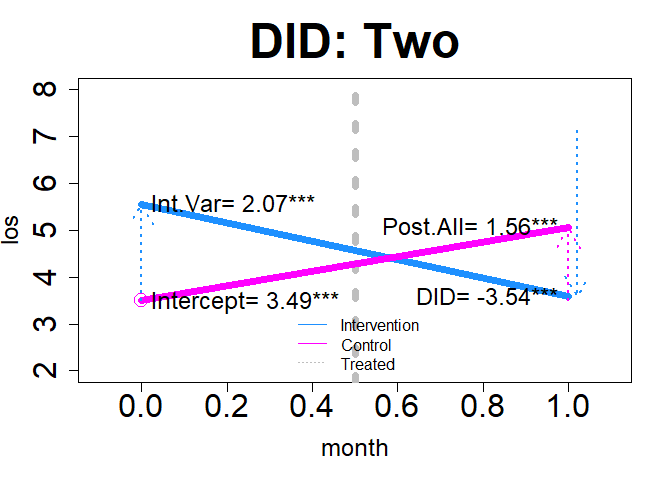
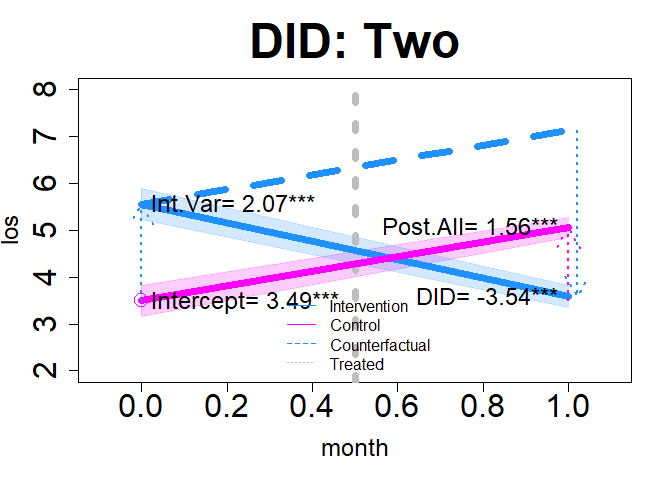
plot.assess sped up confidence bars

diff --git a/README.md b/README.md
@@ -856,13 +856,13 @@ plot(dm1, "DID", add.legend="bottom", ylim=c(2, 8), main="DID: Two No Coefficien
 <img src="man/figures/README-revDID0-1.png" width="100%" />
 
 ``` r
-plot(dm1, "DID", add.legend="bottom", xlim=c(-.1, 1.1), ylim=c(2, 8), main="DID: Two", col=c("dodgerblue","magenta"), lwd=7, cex=2, cex.axis=2, cex.lab=1.5,  cex.main=3, arrow=TRUE, xshift=c(.02), cex.text=1.5, coefs=TRUE, round.c=2 )
+plot(dm1, "DID", add.legend="bottom", xlim=c(-.1, 1.1), ylim=c(2, 8), main="DID: Two", col=c("dodgerblue","magenta"), lwd=7, cex=2, cex.axis=2, cex.lab=1.5,  cex.main=3, arrow=TRUE, xshift=c(.02), cex.text=1.5, coefs=TRUE, round.c=2, cfact=T, conf.int=TRUE, adj.alpha=0.2 )
 ```
 
 <img src="man/figures/README-revDID1-1.png" width="100%" />
 
 ``` r
-plot(dm2, "DID", add.legend="topleft", xlim=c(-.5, 12), ylim=c(2, 8), main="DID: Many", col=c("purple","green"), lwd=7, cex=3, cex.axis=2, cex.lab=1.5,  cex.main=3, arrow=TRUE, xshift=c(.25, .1), cex.text=1.5, coefs=TRUE, round.c=2 )
+plot(dm2, "DID", add.legend="topleft", xlim=c(-.5, 12), ylim=c(2, 8), main="DID: Many", col=c("purple","green"), lwd=7, cex=3, cex.axis=2, cex.lab=1.5,  cex.main=3, arrow=TRUE, xshift=c(.25, .1), cex.text=1.5, coefs=TRUE, round.c=2, cfact=T, conf.int=TRUE, adj.alpha=0.2 )
 ```
 
 <img src="man/figures/README-revDID2-1.png" width="100%" />
@@ -870,19 +870,19 @@ plot(dm2, "DID", add.legend="topleft", xlim=c(-.5, 12), ylim=c(2, 8), main="DID:
 ### Interrupted Time Series
 
 ``` r
-plot(im11, "ITS", add.legend="topleft", xlim=c(-1, 14), ylim=c(2, 8), main="ITS study: SGST", col="thistle", lwd=7, cex=3, cex.axis=2, cex.lab=1.5,  cex.main=3, arrow=TRUE, xshift=c(.25, .25), cex.text=1.5, coefs=TRUE, round.c=2 )
+plot(im11, "ITS", add.legend="topleft", xlim=c(-1, 14), ylim=c(2, 8), main="ITS study: SGST", col="thistle", lwd=7, cex=3, cex.axis=2, cex.lab=1.5,  cex.main=3, arrow=TRUE, xshift=c(.25, .25), cex.text=1.5, coefs=TRUE, round.c=2, cfact=T, conf.int=TRUE, adj.alpha=0.2 )
 ```
 
 <img src="man/figures/README-revITS1-1.png" width="100%" />
 
 ``` r
-plot(im12, "ITS", add.legend="topleft", xlim=c(-1, 14), ylim=c(2, 8), main="ITS study: SGMT", col="hotpink", lwd=7, cex=3, cex.axis=2, cex.lab=1.5,  cex.main=3, arrow=TRUE, xshift=c(.25, .25), cex.text=1.5, coefs=TRUE, round.c=2 )
+plot(im12, "ITS", add.legend="topleft", xlim=c(-1, 14), ylim=c(2, 8), main="ITS study: SGMT", col="hotpink", lwd=7, cex=3, cex.axis=2, cex.lab=1.5,  cex.main=3, arrow=TRUE, xshift=c(.25, .25), cex.text=1.5, coefs=TRUE, round.c=2, cfact=T, conf.int=TRUE, adj.alpha=0.2 )
 ```
 
 <img src="man/figures/README-revITS2-1.png" width="100%" />
 
 ``` r
-plot(im21, "ITS", add.legend="top", xlim=c(-1, 14), ylim=c(2, 8), main="ITS study: MGST", col=c("springgreen","salmon"), lwd=7, cex=3, cex.axis=2, cex.lab=1.5,  cex.main=3, arrow=TRUE, xshift=c(.25, .25), cex.text=1.5, coefs=TRUE, round.c=2, pos.text= list("post1"=2) )
+plot(im21, "ITS", add.legend="top", xlim=c(-1, 14), ylim=c(2, 8), main="ITS study: MGST", col=c("springgreen","salmon"), lwd=7, cex=3, cex.axis=2, cex.lab=1.5,  cex.main=3, arrow=TRUE, xshift=c(.25, .25), cex.text=1.5, coefs=TRUE, round.c=2, pos.text= list("post1"=2), conf.int=TRUE, adj.alpha=0.2 )
 ```
 
 <img src="man/figures/README-revITS3-1.png" width="100%" />
